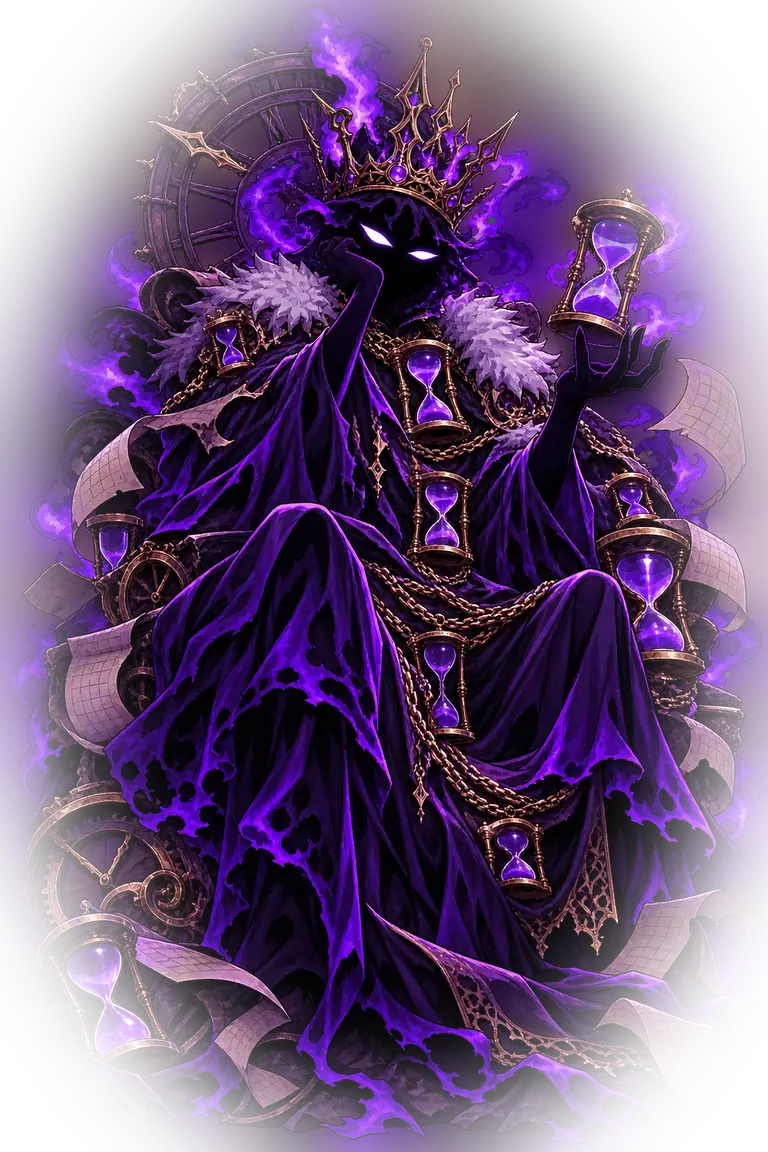
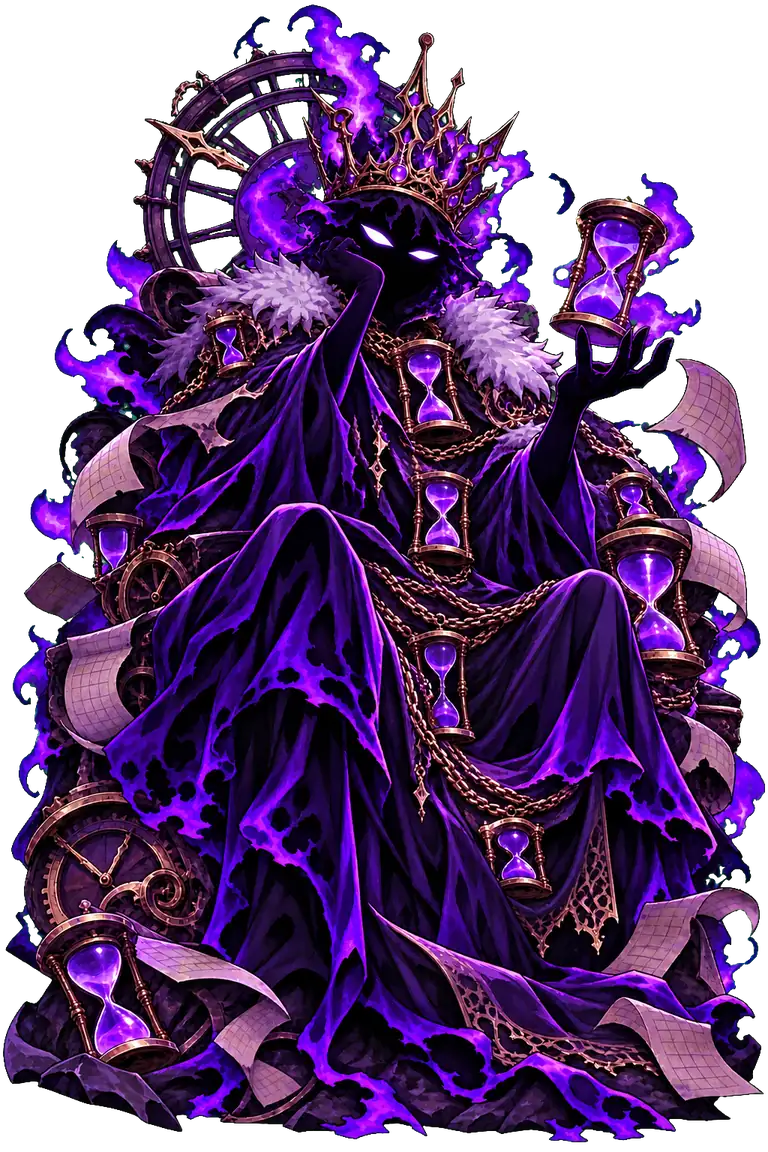
Arte nova no app (chefes Fase 2 e 3, companheiros, 5 capítulos) e Torre com desafio diário ligado ao hábito
- Recorte do fundo verde/magenta, WebP; companheiros maiores e animados
- Torre: um desafio por dia, sobe na hora com animação, fica mais forte nos andares 10 e 30; bot cumpre o desafio

Claude-Session: https://claude.ai/code/session_01UN2bwb3Lfe94UVgDVxnQjR

diff --git a/src/js/51-desafios.js b/src/js/51-desafios.js
@@ -41,15 +41,32 @@ const Bestiario={
 
 // ---------- Torre dos Mil Degraus (C2): sobe 1 andar por dia ativo, nunca desce ----------
 const TMARC=[[10,'Degrau Dez'],[30,'Trinta Degraus'],[50,'Meio da Torre'],[100,'Cem Degraus'],[200,'Duzentos Degraus'],[365,'Torre de um Ano']];
+// Desafio do andar: um por dia, ligado ao hábito da torre. Fica um pouco mais forte a cada faixa de andares.
+const TDES={
+'Celular e redes sociais':[['Deixe o celular em outro cômodo por 30 minutos','Desative as notificações de 1 aplicativo','Na primeira meia hora do dia, não abra redes sociais','Durante uma refeição, deixe o celular longe da mesa','Antes de dormir, deixe o celular fora do alcance da cama'],['Fique 1 hora sem pegar no celular','Apague ou esconda o aplicativo que mais te prende','Passe a manhã inteira sem rolar o feed','Use o celular só sentado, nunca andando','Troque 20 minutos de tela por uma caminhada'],['Fique 2 horas longe do celular','Passe meio dia sem redes sociais','Desligue o celular 1 hora antes de dormir','Passe uma tarde sem abrir vídeos curtos','Converse com alguém pessoalmente em vez de mandar mensagem']],
+'Jogos':[['Antes de jogar, defina o horário de parar','Faça uma tarefa importante antes de abrir o jogo','Jogue no máximo 1 hora hoje','Pare no horário que você combinou consigo','Depois de jogar, anote como se sentiu'],['Fique 1 dia inteiro sem jogar','Troque 30 minutos de jogo por uma atividade física','Não jogue depois das 22h','Jogue só depois de cumprir as missões do dia','Desinstale um jogo que você não controla bem'],['Fique 2 dias seguidos sem jogar (conte este como o primeiro ou o segundo)','Passe a noite fazendo algo fora da tela','Jogue com um amigo em vez de jogar sozinho por horas','Planeje a semana de jogos e siga o plano hoje','Use o tempo de jogo de hoje para aprender algo novo']],
+'Apostas':[['Anote o que te deu vontade de apostar hoje','Quando a vontade vier, espere 30 minutos antes de decidir','Não abra nenhum site ou app de aposta hoje','Silencie grupos e perfis que falam de aposta','Conte o dinheiro que você não apostou hoje'],['Bloqueie um site ou app de aposta no celular','Converse com alguém de confiança sobre as apostas','Deixe o cartão guardado e saia só com o necessário','Passe o dia sem ver jogos ou odds','Escreva o que você faria com o dinheiro guardado'],['Procure um grupo de apoio ou o CAPS da sua cidade','Peça a alguém de confiança para te ajudar a controlar o dinheiro','Passe o fim de semana longe de qualquer aposta','Some quanto você já deixou de apostar desde o andar 1','Ajude alguém contando o que você aprendeu']],
+'Cigarro ou vape':[['Anote cada vez que a vontade aparecer hoje','Quando a vontade bater, espere 10 minutos e beba água','Adie o primeiro cigarro ou vape do dia em 30 minutos','Fique longe dele dentro de casa hoje','Troque um momento de fumar por uma caminhada curta'],['Use 1 a menos do que ontem','Passe uma manhã inteira sem fumar ou vaporizar','Tire o maço ou o vape do bolso e deixe longe','Conte a alguém que você está reduzindo','Respire fundo 10 vezes no lugar de uma pausa para fumar'],['Passe o dia inteiro usando menos do que no começo da torre','Ligue para o Disque Saúde 136 ou procure a UBS para ajuda para parar','Passe uma tarde inteira sem fumar ou vaporizar','Jogue fora um maço ou um refil','Escreva como seu fôlego está hoje comparado ao andar 1']],
+'Álcool':[['Anote o que você sentiu antes de ter vontade de beber','Beba um copo de água antes de decidir qualquer coisa','Se for beber hoje, beba menos do que ontem','Não guarde bebida à vista em casa hoje','Troque a bebida da noite por um chá ou suco'],['Se for beber, defina antes um limite pequeno e cumpra','Recuse uma bebida com gentileza','Passe a noite fazendo algo que não envolva beber','Conte a alguém de confiança que você está diminuindo','Passe um dia sem beber, se for seguro para você'],['Reduza a bebida no fim de semana em relação ao anterior','Procure um grupo de apoio ou o CAPS AD da sua cidade','Encontre amigos num lugar sem bebida','Escreva o que mudou no seu sono desde o andar 1','Ajude alguém contando o que você aprendeu']],
+'Outra coisa':[['Anote quando o hábito apareceu e o que você sentia','Espere 10 minutos antes de agir no impulso','Afaste de você o que facilita o hábito','Troque o hábito por uma pausa de respiração','Conte as vezes que você resistiu hoje'],['Passe metade do dia sem ceder ao hábito','Conte a alguém de confiança o que você está enfrentando','Mude a rotina no horário em que o hábito costuma aparecer','Faça uma atividade física quando a vontade vier','Escreva por que você quer mudar isso'],['Passe o dia inteiro sem ceder ao hábito','Procure ajuda profissional ou um grupo de apoio','Planeje a semana para evitar os gatilhos','Some quantas vezes você resistiu desde o andar 1','Ajude alguém contando o que você aprendeu']],
+'Procrastinação':[['Faça 10 minutos da tarefa que você está adiando','Escreva as 3 tarefas mais importantes de hoje','Deixe o celular longe enquanto faz uma tarefa','Comece pela tarefa mais difícil do dia','Arrume o espaço onde você vai trabalhar ou estudar'],['Faça 25 minutos de foco, sem pausa, numa tarefa','Termine uma tarefa que está parada há dias','Divida um projeto grande em passos pequenos','Resolva 3 pendências pequenas seguidas','Diga "não" a algo que tiraria seu foco hoje'],['Faça 2 blocos de 25 minutos de foco','Termine algo que você adia há mais de uma semana','Planeje a semana inteira hoje','Passe a manhã sem distrações','Entregue algo antes do prazo']],
+'Sono ruim':[['Desligue as telas 30 minutos antes de dormir','Vá para a cama no mesmo horário de ontem','Evite café depois das 16h','Deixe o quarto escuro e silencioso','Faça 5 minutos de respiração antes de dormir'],['Acorde no mesmo horário, mesmo sem vontade','Durma sem o celular ao lado da cama','Não tire cochilo longo depois do almoço','Jante mais leve e mais cedo','Desligue as telas 1 hora antes de dormir'],['Mantenha o mesmo horário de dormir por 3 dias (conte este)','Pegue sol pela manhã por 10 minutos','Escreva as preocupações num papel antes de deitar','Passe a noite sem telas depois do jantar','Anote como está o seu sono comparado ao andar 1']]};
 const Torre={
  est(){return S.torre=S.torre||{n:0,h:null}},
  escolher(h){const t=Torre.est();t.h=h;t.ini=t.ini||S.day;S.top=false;render()},
+ faixa(n){return n<10?0:n<30?1:2},
+ desafio(){const t=Torre.est(),L=(TDES[t.h]||TDES['Outra coisa'])[Torre.faixa(t.n)];return L[(t.n+S.day)%L.length]},
+ feitoHoje(){return Torre.est().dd===S.day},
+ subir(){const t=Torre.est();if(!t.h||t.dd===S.day)return;t.dd=S.day;t.n++;t.up=Date.now();t.msg='';
+  if(t.n%10===0){const x=Math.round(25*(S.rkm||1));S.xpPrev+=x;const m=TMARC.find(q=>q[0]===t.n);t.msg='Andar '+t.n+': +'+x+' XP'+(m?' e o título '+m[1]:'')+'.'}
+  try{Som.tambor()}catch(e){}try{if(navigator.vibrate)navigator.vibrate([30,40,90])}catch(e){}S.top=false;render()},
  v(){const t=Torre.est(),n=t.n,prox=TMARC.find(m=>m[0]>n);
-  if(!t.h){const op=Object.keys(DGH).filter(h=>h!=='O Espelho');return tutH('torre','Torre dos Mil Degraus','Uma torre sem fim. Você sobe um andar por dia em que fizer pelo menos uma missão. Nunca desce, não tem vidas e não tem pressa.')+'<div class="card"><div class="mt"><span class="g">Torre dos Mil Degraus</span><b>Qual hábito esta torre representa?</b></div><p class="note">Escolha o hábito que você quer manter vigiado. Cada andar é um dia em que você cuidou de si.</p><div class="kchips">'+op.map(h=>'<button class="mb" onclick="Torre.escolher(\''+h+'\')">'+esc(h)+'</button>').join('')+'</div></div>'}
-  const vis=Array.from({length:9},(_,k)=>n+2-k).filter(x=>x>=0);
-  return '<div class="card"><div class="mt"><span class="g">Torre dos Mil Degraus · '+esc(t.h)+'</span><b>Andar '+n+'</b></div><div class="twr">'+vis.map(x=>'<div class="twf'+(x===n?' cur':x>n?' up':'')+(TMARC.some(m=>m[0]===x)?' mk':'')+'"><span>'+(x===0?'Térreo':x)+'</span>'+(TMARC.find(m=>m[0]===x)?'<small>'+TMARC.find(m=>m[0]===x)[1]+'</small>':'')+'</div>').join('')+'</div>'+(t.msg?'<p class="pvs">'+esc(t.msg)+'</p>':'')+'<p class="note">'+(prox?'Próximo marco: andar '+prox[0]+' ('+prox[1]+'), faltam '+(prox[0]-n)+' dias ativos.':'Você passou de todos os marcos. A torre continua.')+'</p><p class="note">A cada 10 andares: +'+Math.round(25*(S.rkm||1))+' XP. Nos marcos, um título novo.</p></div>'}
+  if(!t.h){const op=Object.keys(DGH).filter(h=>h!=='O Espelho');return tutH('torre','Torre dos Mil Degraus','Uma torre sem fim. Todo dia ela te dá um desafio ligado ao hábito que você escolher. Cumpriu, sobe um andar. Nunca desce, não tem vidas e não tem pressa.')+'<div class="card"><div class="mt"><span class="g">Torre dos Mil Degraus</span><b>Qual hábito esta torre representa?</b></div><p class="note">Escolha o hábito que você quer enfrentar. Cada andar é um desafio cumprido.</p><div class="kchips">'+op.map(h=>'<button class="mb" onclick="Torre.escolher(\''+h+'\')">'+esc(h)+'</button>').join('')+'</div></div>'}
+  const vis=Array.from({length:9},(_,k)=>n+2-k).filter(x=>x>=0),feito=Torre.feitoHoje(),anim=t.up&&Date.now()-t.up<1500,fx=['Começo','Firmeza','Domínio'][Torre.faixa(n)];
+  const des=feito?'<div class="card tdc ok"><span class="g">Desafio de hoje · cumprido</span><b>Você subiu para o andar '+n+'.</b><p class="note">Amanhã a torre te dá um desafio novo.</p></div>'
+   :'<div class="card tdc"><span class="g">Desafio do andar '+(n+1)+' · '+fx+'</span><b>'+esc(Torre.desafio())+'</b>'+(t.h==='Álcool'?'<p class="note">Se você bebe todo dia, parar de vez pode fazer mal. Reduza aos poucos e procure a UBS ou o CAPS AD.</p>':'')+'<p class="note">Fez? Marque e suba um andar agora. Se hoje não der, a torre só espera: você não perde nada.</p><button class="cta" onclick="Torre.subir()">Cumpri o desafio · subir</button></div>';
+  return des+'<div class="card"><div class="mt"><span class="g">Torre dos Mil Degraus · '+esc(t.h)+'</span><b>Andar '+n+'</b></div><div class="twr'+(anim?' tup':'')+'">'+vis.map(x=>'<div class="twf'+(x===n?' cur':x>n?' up':'')+(TMARC.some(m=>m[0]===x)?' mk':'')+'"><span>'+(x===0?'Térreo':x)+'</span>'+(TMARC.find(m=>m[0]===x)?'<small>'+TMARC.find(m=>m[0]===x)[1]+'</small>':'')+'</div>').join('')+'</div>'+(t.msg?'<p class="pvs">'+esc(t.msg)+'</p>':'')+'<p class="note">'+(prox?'Próximo marco: andar '+prox[0]+' ('+prox[1]+'), faltam '+(prox[0]-n)+' desafios.':'Você passou de todos os marcos. A torre continua.')+'</p><p class="note">A cada 10 andares: +'+Math.round(25*(S.rkm||1))+' XP. Nos marcos, um título novo. Os desafios ficam mais fortes no andar 10 e no andar 30.</p></div>'}
 };
-NDAY.push(rec=>{if(!liberado('torre'))return;const t=Torre.est();if(!t.h||!rec.active)return;t.n++;t.msg='';if(t.n%10===0){const x=Math.round(25*(S.rkm||1));S.xpPrev+=x;const m=TMARC.find(q=>q[0]===t.n);t.msg='Andar '+t.n+': +'+x+' XP'+(m?' e o título '+m[1]:'')+'.'}});
 TITX.push(()=>{const n=(S.torre||{}).n||0;return TMARC.filter(m=>n>=m[0]).map(m=>m[1])});
 
 // ---------- Invasões das estações (C3): 4 por ano, 7 dias cada, voltam no ano seguinte ----------

diff --git a/src/js/65-bot.js b/src/js/65-bot.js
@@ -5,11 +5,11 @@ const Bot={
  aberto:0,
  // conclui um andar da dungeon D pelo modo guiado (respeita a lógica real do jogo)
  andar(D){const i=D.fl.findIndex(f=>!f);if(i<0)return;S.dg=D;S.floorDay=-1;startGuide('dg'+i,i);let n=0;while(S.g&&n++<400){const g=S.g,st=curStep();if(g.ph==='fb'){gFb('o');continue}if(g.ph==='rest'){gRestSkip();continue}if(st.k==='sets'){gSetDone();continue}if(st.k==='timer'){g.fin=true;finishStep();continue}if(st.k==='write'){g.note='Feito pelo bot de teste.';finishStep();continue}finishStep()}S.cel=null},
- // tudo do dia: missões, água, sono, mandamentos, chefe errante, um andar em cada dungeon aberta
+ // tudo do dia: missões, água, sono, mandamentos, chefe errante, desafio da torre, um andar em cada dungeon aberta
  hoje(silencio){const C=calcXp();C.ms.forEach(m=>{if(!(S.ms[m.key]&&S.ms[m.key].st==='done'))S.ms[m.key]={st:'done',times:[]}});if(!S.noWater)S.cups=Math.max(S.cups||0,C.wp.cups);
   if(slpOpen())slpSet(3);(S.mand||[]).forEach(m=>{m.d=m.d||{};if(!m.d[S.day]){m.d[S.day]=1;S.xpPrev+=2}});
   const t=Errante.est();if(t&&!t.won){ERR.find(e=>e.id===t.id).ch.forEach((_,i)=>t.ck[i]=1);Errante.checar()}
-  Object.values(S.dgAll||{}).filter(D=>!D.won).forEach(D=>Bot.andar(D));S.floorDay=S.day;
+  try{const tw=Torre.est();if(tw.h&&liberado('torre')&&tw.dd!==S.day){Torre.subir()}}catch(e){}Object.values(S.dgAll||{}).filter(D=>!D.won).forEach(D=>Bot.andar(D));S.floorDay=S.day;
   if(!silencio){S.botMsg='Dia '+S.day+' completo: missões, água, sono e um andar em cada dungeon aberta.';S.top=true;render()}},
  avancar(){Bot.hoje(1);nextDay();S.splashDay=S.day;S.botMsg='Avançou para o dia '+S.day+'.';S.top=true;render()},
  semana(){for(let i=0;i<7;i++){Bot.hoje(1);nextDay()}S.splashDay=S.day;S.botMsg='7 dias completos. Agora é o dia '+S.day+'.';S.top=true;render()},

diff --git a/src/styles/13-vivo.css b/src/styles/13-vivo.css
@@ -37,3 +37,16 @@ body.rfx #vivo,body.rfx .vdust,body.rfx .vgate{display:none}
 .sheet.app>*{flex-shrink:0}
 .dcw{flex:none}
 .pvw .avw{display:block;width:100%}
+/* companheiros com retrato: maior, enquadrado no rosto e "respirando" */
+.cmpc{padding-right:118px;min-height:150px}
+.cmpa{width:104px;height:134px;box-shadow:0 0 18px rgba(var(--cc),.35)}
+.cmpa img{object-position:50% 8%;animation:vresp 5s ease-in-out infinite;transform-origin:50% 100%}
+.cmpa::after{content:'';position:absolute;inset:0;border-radius:10px;box-shadow:inset 0 0 0 1px rgba(var(--cc),.55);pointer-events:none}
+/* Torre: desafio do dia e subida animada */
+.tdc{border:1px solid rgba(240,182,74,.45);background:linear-gradient(160deg,rgba(240,182,74,.12),rgba(20,14,38,.75))}
+.tdc b{display:block;font-size:18px;line-height:1.35;margin:4px 0 6px}
+.tdc.ok{border-color:rgba(90,200,140,.5);background:linear-gradient(160deg,rgba(90,200,140,.14),rgba(20,14,38,.75))}
+.twr.tup{animation:tsobe .9s cubic-bezier(.2,.8,.2,1)}
+.twr.tup .twf.cur{animation:tbri 1.4s ease-out}
+@keyframes tsobe{from{transform:translateY(-46px);opacity:.4}to{transform:none;opacity:1}}
+@keyframes tbri{0%{box-shadow:0 0 0 0 rgba(240,182,74,.9)}100%{box-shadow:0 0 0 14px rgba(240,182,74,0)}}

diff --git a/qa/teste-dungeons.js b/qa/teste-dungeons.js
@@ -28,7 +28,7 @@ const alvo = path.resolve(process.argv[2] || 'dist/index.html');
     // Bestiário
     o.bestiario = Bestiario.qtd() + ' de ' + Bestiario.lista().length;
     // Torre
-    Torre.escolher('Jogos'); for (let d = 0; d < 12; d++) __dia(); o.torre = S.torre.n + ' andares, msg: ' + (S.torre.msg || '-');
+    Torre.escolher('Jogos'); for (let d = 0; d < 12; d++) { Torre.subir(); Torre.subir(); __dia(); } o.torre = S.torre.n + ' andares, msg: ' + (S.torre.msg || '-');
     // Invasão do verão (21 a 27/12): 5 dias ativos dentro da janela
     S._hojeTeste = '2026-12-20T12:00:00'; S.lastDate = '2026-12-20'; let n0 = Invasao.atual(); o.invAntes = n0 ? n0.id : 'fora da janela';
     for (let d = 0; d < 6; d++) { __dia(); const t = new Date(2026, 11, 21 + d, 12); S._hojeTeste = t.toISOString(); S.lastDate = _iso.call ? (t.getFullYear() + '-' + String(t.getMonth() + 1).padStart(2, '0') + '-' + String(t.getDate()).padStart(2, '0')) : S.lastDate; Invasao.checar() }
